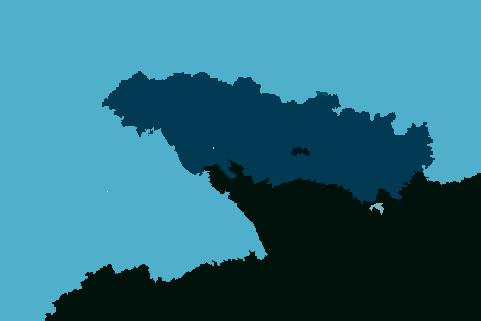
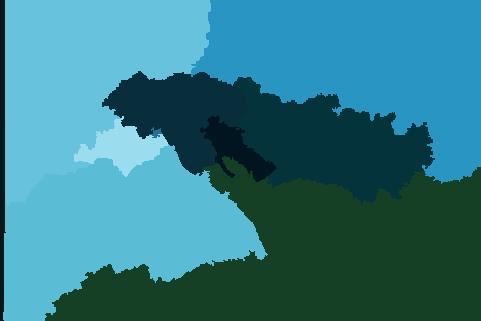
Multithread

diff --git a/task2/src/MST.java b/task2/src/MST.java
@@ -2,47 +2,48 @@ import java.util.ArrayList;
 import java.util.HashMap;
 import java.util.HashSet;
 import java.util.PriorityQueue;
+import java.util.concurrent.ExecutorService;
+import java.util.concurrent.Executors;
 
 class MST {
 
-    private PriorityQueue<Edge> pqueue;
-    private HashSet<String> pqueueHash;
-    private HashMap<String, Double> memoizer;
+    public static ArrayList<ArrayList<Node>> prim(ArrayList<ArrayList<Node>> nodes, ArrayList<Node> start) {
 
+        final ExecutorService executorService = Executors.newFixedThreadPool(Runtime.getRuntime().availableProcessors());
 
-    MST(ArrayList<Node> start, ArrayList<ArrayList<Node>> nodes) {
-        pqueue = new PriorityQueue<>();
-        pqueueHash = new HashSet<>();
-        memoizer = new HashMap<>();
+        executorService.execute(() -> {
 
-        //Set initial condition
-        for(Node root : start){
-            root.setCost(0);
-            pqueue.addAll(addEdges(root, nodes));
-        }
+            final ArrayList<Edge> edges = new ArrayList<>();
+            final PriorityQueue<Edge> pqueue = new PriorityQueue<>();
+            final HashSet<String> pqueueHash = new HashSet<>();
 
-    }
-
-    public ArrayList<ArrayList<Node>> prim(ArrayList<ArrayList<Node>> nodes) {
-        ArrayList<Edge> edges = new ArrayList<>();
-        while (!pqueue.isEmpty()) {
-            //Set current to best possible node in priority queue, comparison can be found i Node class
-            Edge current = pqueue.poll();
-
-            if(!(current.getN1().isClosed() && current.getN2().isClosed())) { //The edge between N1 and N2 lead to the discovery of a new node (N2)
-                edges.add(current);
+            //Set initial condition
+            for(Node root : start){
+                root.setCost(0);
+                pqueue.addAll(addEdges(root, nodes));
             }
 
-            current.getN1().setClosed(true);
-            current.getN2().setClosed(true);
+            while (!pqueue.isEmpty()) {
+                //Set current to best possible node in priority queue, comparison can be found i Node class
+                final Edge current = pqueue.poll();
 
-            pqueue.addAll(addEdges(current.getN1(), nodes));
-            pqueue.addAll(addEdges(current.getN2(), nodes));
-        }
+                if (!(current.getN1().isClosed() && current.getN2().isClosed())) { //The edge between N1 and N2 lead to the discovery of a new node (N2)
+                    edges.add(current);
+                }
+
+                current.getN1().setClosed(true);
+                current.getN2().setClosed(true);
+
+                pqueue.addAll(addEdges(current.getN1(), nodes));
+                pqueue.addAll(addEdges(current.getN2(), nodes));
+            }
+        });
+        executorService.shutdown();
+        while(!executorService.isTerminated()){}
         return nodes;
     }
 
-    private ArrayList<ArrayList<Node>> addChildren(ArrayList<ArrayList<Node>> nodes) {
+    private  static ArrayList<ArrayList<Node>> addChildren(ArrayList<ArrayList<Node>> nodes) {
         for (ArrayList<Node> row : nodes) {
             for (Node node : row) {
                 if (node.getParent() != null) {
@@ -53,63 +54,15 @@ class MST {
         return nodes;
     }
 
-    private double getG(Node current, Node neighbour) {
-        //return Helpers.rgbDistance(current.getColor(), neighbour.getColor());
+    private static double getG(Node current, Node neighbour) {
+        return Helpers.rgbDistance(current.getColor(), neighbour.getColor());
 
-        String key = current.getColor() + "" + neighbour.getColor();
-        String revKey = neighbour.getColor() + "" + current.getColor();
 
-        double g_score;
-
-        if (memoizer.containsKey(key)) {
-            g_score = memoizer.get(key);
-        } else if (memoizer.containsKey(revKey)) {
-            g_score = memoizer.get(revKey);
-        } else {
-            g_score = Helpers.rgbDistance(current.getColor(), neighbour.getColor());
-            memoizer.put(key, g_score);
-        }
-
-        return g_score;
 
     }
 
-
-    private ArrayList<Node> addNeighbours(Node node, ArrayList<ArrayList<Node>> nodes) {
-        ArrayList<Node> neighbours = new ArrayList<>();
-        try {
-            Node neighbour = nodes.get((int) node.getX()).get((int) (node.getY() - 1));
-            neighbours.add(neighbour);
-        } catch (Exception ignored) {
-        }
-        try {
-            Node neighbour = nodes.get((int) node.getX()).get((int) (node.getY() + 1));
-
-            neighbours.add(neighbour);
-
-        } catch (Exception ignored) {
-        }
-        try {
-            Node neighbour = nodes.get((int) node.getX() - 1).get((int) (node.getY()));
-
-            neighbours.add(neighbour);
-
-        } catch (Exception ignored) {
-        }
-        try {
-            Node neighbour = nodes.get((int) node.getX() + 1).get((int) (node.getY()));
-
-            neighbours.add(neighbour);
-
-        } catch (Exception ignored) {
-        }
-
-
-        return neighbours;
-    }
-
-    private ArrayList<Edge> addEdges(Node node, ArrayList<ArrayList<Node>> nodes) {
-        ArrayList<Edge> edges = new ArrayList<>();
+    private static ArrayList<Edge> addEdges(Node node, ArrayList<ArrayList<Node>> nodes) {
+        final ArrayList<Edge> edges = new ArrayList<>();
         try {
             Node neighbour = nodes.get((int) node.getX()).get((int) (node.getY() - 1));
             double g = getG(node, neighbour);

diff --git a/task2/src/Helpers.java b/task2/src/Helpers.java
@@ -2,6 +2,8 @@ import java.awt.*;
 import java.awt.image.BufferedImage;
 import java.awt.image.DataBufferByte;
 import java.util.*;
+import java.util.concurrent.ExecutorService;
+import java.util.concurrent.Executors;
 
 public abstract class Helpers {
 
@@ -163,15 +165,27 @@ public abstract class Helpers {
     }
 
     public static ArrayList<ArrayList<Node>> initNodes(int[][] img) {
-        ArrayList<ArrayList<Node>> nodes = new ArrayList<>();
-        for (int i = 0; i < img.length; i++) {
-            nodes.add(new ArrayList<>());
-            for (int j = 0; j < img[0].length; j++) {
 
-                int c = img[i][j];
-                nodes.get(i).add(new Node(i, j, c));
+        ArrayList<ArrayList<Node>> nodes = new ArrayList<>();
+
+        final ExecutorService executorService = Executors.newFixedThreadPool(Runtime.getRuntime().availableProcessors());
+
+        executorService.execute(() -> {
+
+
+            for (int i = 0; i < img.length; i++) {
+                nodes.add(new ArrayList<>());
+                for (int j = 0; j < img[0].length; j++) {
+
+                    final int c = img[i][j];
+                    nodes.get(i).add(new Node(i, j, c));
+                }
             }
-        }
+        });
+
+        executorService.shutdown();
+        while(!executorService.isTerminated()){}
+
         return nodes;
     }
 
@@ -207,33 +221,44 @@ public abstract class Helpers {
 
     public static ArrayList<Node> initRootNodes(ArrayList<ArrayList<Node>> nodes, int numSegments) {
 
-        ArrayList<Node> rootNodes = new ArrayList<>();
+        final ArrayList<Node> rootNodes = new ArrayList<>();
 
-        Random r = new Random();
+        final ExecutorService executorService = Executors.newFixedThreadPool(Runtime.getRuntime().availableProcessors());
 
-        HashSet<String> selected = new HashSet<>();
+        executorService.execute(() -> {
 
-        for (int n = 0; n < numSegments; n++) { //init with 0 0 as root, so we take that into account for number of segments.
-            int x = r.nextInt(nodes.size());
-            int y = r.nextInt(nodes.get(0).size());
-            String s = x + "" + y;
-            int counter = 0;
-            while (selected.contains(s) && (x == 0 && y == 0) && counter < 1000) {
-                x = r.nextInt(nodes.size());
-                y = r.nextInt(nodes.get(0).size());
-                s = x + "" + y;
-                counter += 1;
-            }
-            if (counter >= 999) {
-                break;
+            for (ArrayList<Node> row : nodes) {
+                for (Node node : row) {
+                    node.setRoot(false);
+                }
             }
 
-            selected.add(s);
 
-            nodes.get(x).get(y).setRoot(true);
+            final Random r = new Random();
 
-            rootNodes.add(nodes.get(x).get(y));
-        }
+            final HashSet<String> selected = new HashSet<>();
+
+            for (int n = 0; n < numSegments; n++) { //init with 0 0 as root, so we take that into account for number of segments.
+
+                for (int i = 0; i < 1000; i++) {
+
+                    final int x = r.nextInt(nodes.size());
+                    final int y = r.nextInt(nodes.get(0).size());
+                    final String s = x + "" + y;
+                    if(!selected.contains(s)){
+                        selected.add(s);
+
+                        nodes.get(x).get(y).setRoot(true);
+
+                        rootNodes.add(nodes.get(x).get(y));
+                        break;
+                    }
+                }
+            }
+        });
+
+        executorService.shutdown();
+        while(!executorService.isTerminated()){}
 
         return rootNodes;
     }

diff --git a/task2/src/BFS.java b/task2/src/BFS.java
@@ -1,40 +1,50 @@
 import java.util.ArrayList;
 import java.util.LinkedList;
+import java.util.concurrent.ExecutorService;
+import java.util.concurrent.Executors;
 
 public class BFS {
 
     public static ArrayList<Node> BFS(Node startNode) {
 
-        LinkedList<Node> BFSQueue = new LinkedList<>();
         ArrayList<Node> closed = new ArrayList<>();
 
+        final ExecutorService executorService = Executors.newFixedThreadPool(Runtime.getRuntime().availableProcessors());
 
-        //Set initial condition
-        BFSQueue.add(startNode);
-        Node current;
-        //While will run until all possible nodes are checked, even if solution is not found
-        while (!BFSQueue.isEmpty()) {
-            //Set current to first in open list
-            current = BFSQueue.pop();
+        executorService.execute(() -> {
 
-            closed.add(current);
+            final LinkedList<Node> BFSQueue = new LinkedList<>();
 
-            //else add neighbours to current node
-            ArrayList<Node> children = current.getChildren();
-            for (int i = 0; i < children.size(); i++) {
-                Node child = children.get(i);
+            //Set initial condition
+            BFSQueue.add(startNode);
 
-                //If neighbours is in closed list; ignore it
-                if (closed.contains(child) || child.isRoot()) {
-                    continue;
-                }
+            //While will run until all possible nodes are checked, even if solution is not found
+            while (!BFSQueue.isEmpty()) {
+                //Set current to first in open list
+                final Node current = BFSQueue.pop();
 
-                //If open list does not contains neighbour
-                if (!BFSQueue.contains(child)) {
-                    BFSQueue.offer(child);
+                closed.add(current);
+
+                //else add neighbours to current node
+                final ArrayList<Node> children = current.getChildren();
+                for (int i = 0; i < children.size(); i++) {
+                   final Node child = children.get(i);
+
+                    //If neighbours is in closed list; ignore it
+                    if (closed.contains(child) || child.isRoot()) {
+                        continue;
+                    }
+
+                    //If open list does not contains neighbour
+                    if (!BFSQueue.contains(child)) {
+                        BFSQueue.offer(child);
+                    }
                 }
             }
-        }
+        });
+
+        executorService.shutdown();
+        while(!executorService.isTerminated()){}
         return closed;
     }
 }

diff --git a/task2/src/Main.java b/task2/src/Main.java
@@ -24,15 +24,17 @@ public class Main {
         //img = scale(img, img.getType(), (int)(img.getWidth()*0.1), (int)(img.getHeight()*0.1), 0.1, 0.1);
         int[][] imgArray = Helpers.convertTo2DWithoutUsingGetRGB(img);
 
-        ArrayList<ArrayList<Node>> nodes = Helpers.initNodes(imgArray);
-
-        ArrayList<Node> rootNodes = Helpers.initRootNodes(nodes, numSegments);
-
-        MST mst = new MST(rootNodes, nodes);
-        nodes = mst.prim(nodes);
 
 
-        System.out.println(rootNodes.size());
+
+        for (int i = 0; i < 3; i++) {
+
+            ArrayList<ArrayList<Node>> nodes = Helpers.initNodes(imgArray);
+
+            ArrayList<Node> rootNodes = Helpers.initRootNodes(nodes, numSegments);
+
+            nodes = MST.prim(nodes, rootNodes);
+
 
         for(Node rootNode : rootNodes){
             ArrayList<Node> segment = BFS.BFS(rootNode);
@@ -42,23 +44,8 @@ public class Main {
             }
         }
 
-
-
-       /* Population population = new Population(img, numCentroids, numIndividuals);
-
-
-
-        for (int i = 0; i < numPopulations; i++) {
-            population = new Population(img, numCentroids, GA.doGA(img, population));
-        }
-
-        for (Centroid c : population.getIndividuals().get(0).getCentroids()) {
-            for (Node n : c.getcurrentlyAssignedNodes()) {
-                img = changeImage(img, n, c);
-            }
-        }*/
-
         writeImage(path, img);
+        }
 
     }
 

diff --git a/task2/src/Segment.java b/task2/src/Segment.java
@@ -1,0 +1,18 @@
+import java.util.ArrayList;
+
+public class Segment {
+
+    private ArrayList<Node> nodes;
+
+    public Segment(){
+        nodes = new ArrayList<>();
+    }
+
+    public void add(Node node){
+        nodes.add(node);
+    }
+
+    public ArrayList<Node> get(){
+        return this.nodes;
+    }
+}
